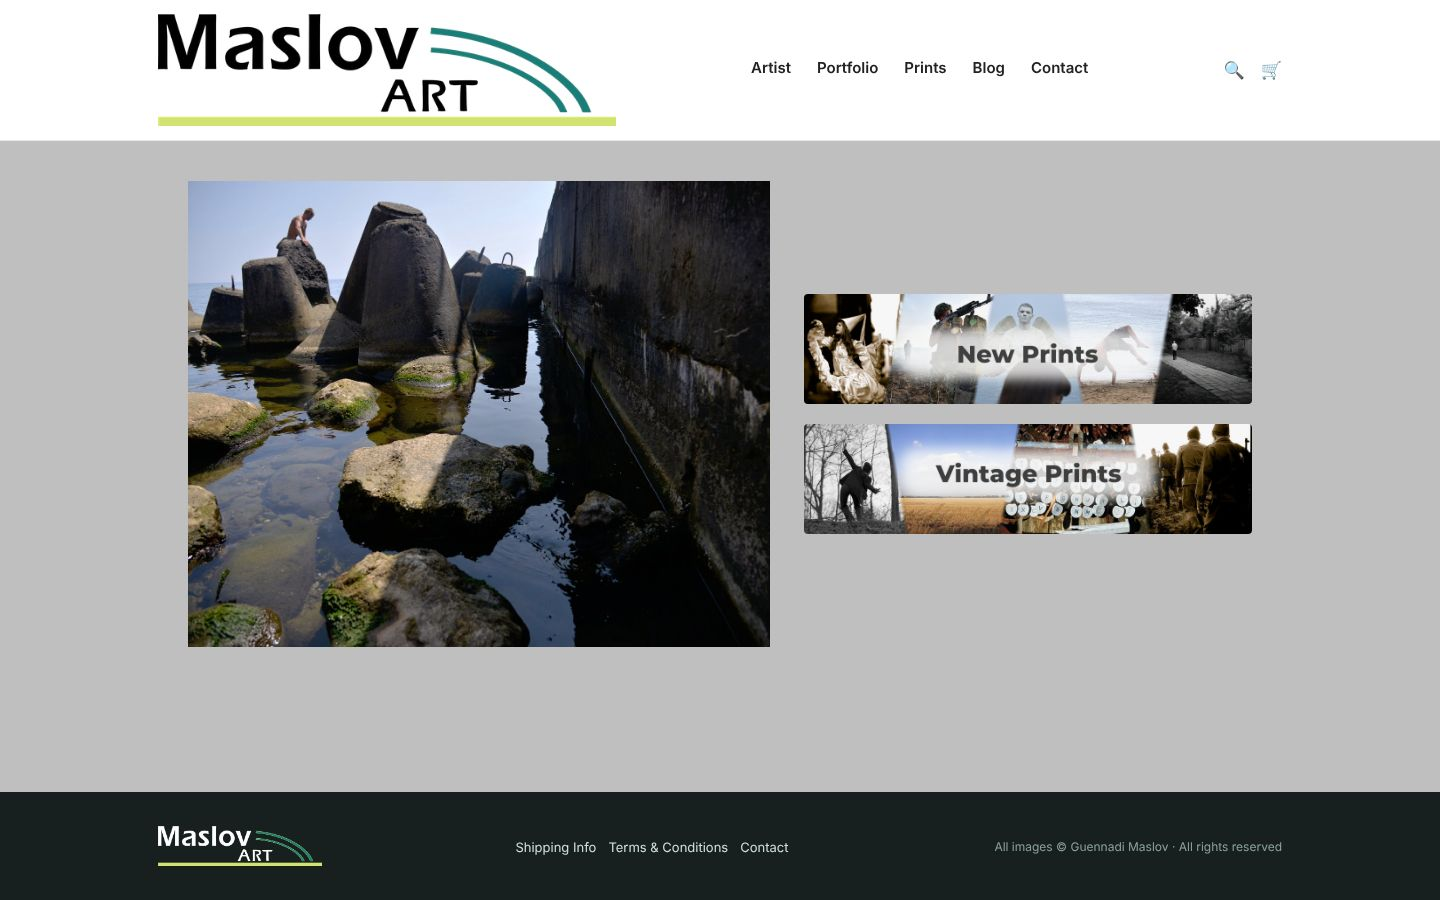
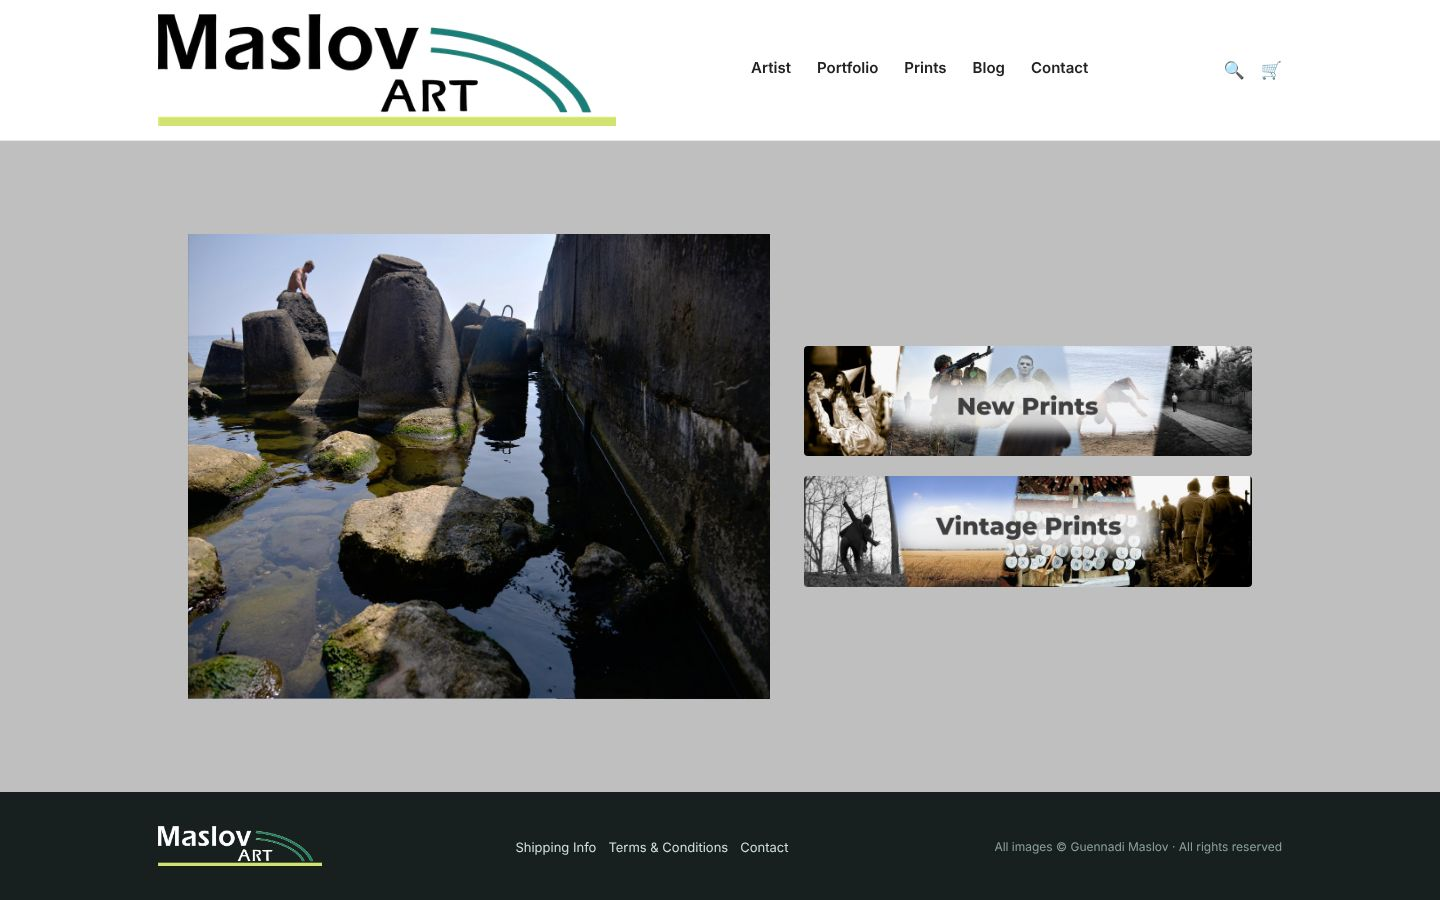
Center the homepage image and buttons vertically (Versions 2 and 3)
On screens taller than the content, the image and buttons sat at the top of
the gray area with a big gap below. They now stay centered between the
header and footer. Version 1 is unchanged.

Claude-Session: https://claude.ai/code/session_01AbfReMsJsVPRH8J5HCZgyH

Changed region(s): [[0.125, 0.1867, 0.875, 0.7778]]

diff --git a/site-v3.html b/site-v3.html
@@ -75,6 +75,8 @@
   body.is-home main{min-height:0;background:#ededeb;}
   /* VERSION 3: 25% gray behind the main content on every page (header and footer unchanged) */
   main{background:#bfbfbf;padding-bottom:40px;} footer{margin-top:0;} body.is-home main,.homewrap{background:#bfbfbf;} body.is-home main{padding-bottom:0;} body.is-home footer{margin-top:0;} body.is-home .bar img.logo{height:112px;}
+  /* Homepage: keep the main image and buttons vertically centered in the content area */
+  body.is-home main{display:flex;flex-direction:column;justify-content:center;} body.is-home main>.wrap{display:none;}
   @media(max-width:820px){body.is-home .bar img.logo{height:64px;}}
   @media(max-width:820px){nav.main,.tools .search{display:none;} .hamb{display:block;} nav.main.open{display:flex;flex-direction:column;position:absolute;top:100%;left:0;right:0;background:#fff;border-bottom:1px solid #e8e8e4;box-shadow:0 10px 22px rgba(0,0,0,.10);padding:4px 0;gap:0;z-index:30;} nav.main.open a{padding:13px 28px;border-bottom:1px solid #f3f3f1;border-top:0;} .homegrid,.artist-top,.detail,.viewer,.contactgrid,.prints-two{grid-template-columns:1fr;} .portrait{width:100%;max-width:480px;height:auto;} .coll{columns:1;} .posts .post{grid-template-columns:1fr;}}
 </style></head>

diff --git a/site-v2.html b/site-v2.html
@@ -73,6 +73,8 @@
   @media(max-width:820px){.np{grid-template-columns:1fr;gap:34px;} .npgrid{grid-template-columns:repeat(2,1fr);gap:22px 16px;} .npside{flex-direction:row;gap:14px;} .npside a{flex:1;}}
   /* HOMEPAGE: larger logo, no empty space above the footer */
   body.is-home main{min-height:0;background:#ededeb;} body.is-home footer{margin-top:0;} body.is-home .bar img.logo{height:112px;}
+  /* Homepage: keep the main image and buttons vertically centered in the content area */
+  body.is-home main{display:flex;flex-direction:column;justify-content:center;} body.is-home main>.wrap{display:none;}
   @media(max-width:820px){body.is-home .bar img.logo{height:64px;}}
   @media(max-width:820px){nav.main,.tools .search{display:none;} .hamb{display:block;} nav.main.open{display:flex;flex-direction:column;position:absolute;top:100%;left:0;right:0;background:#fff;border-bottom:1px solid #e8e8e4;box-shadow:0 10px 22px rgba(0,0,0,.10);padding:4px 0;gap:0;z-index:30;} nav.main.open a{padding:13px 28px;border-bottom:1px solid #f3f3f1;border-top:0;} .homegrid,.artist-top,.detail,.viewer,.contactgrid,.prints-two{grid-template-columns:1fr;} .portrait{width:100%;max-width:480px;height:auto;} .coll{columns:1;} .posts .post{grid-template-columns:1fr;}}
 </style></head>
